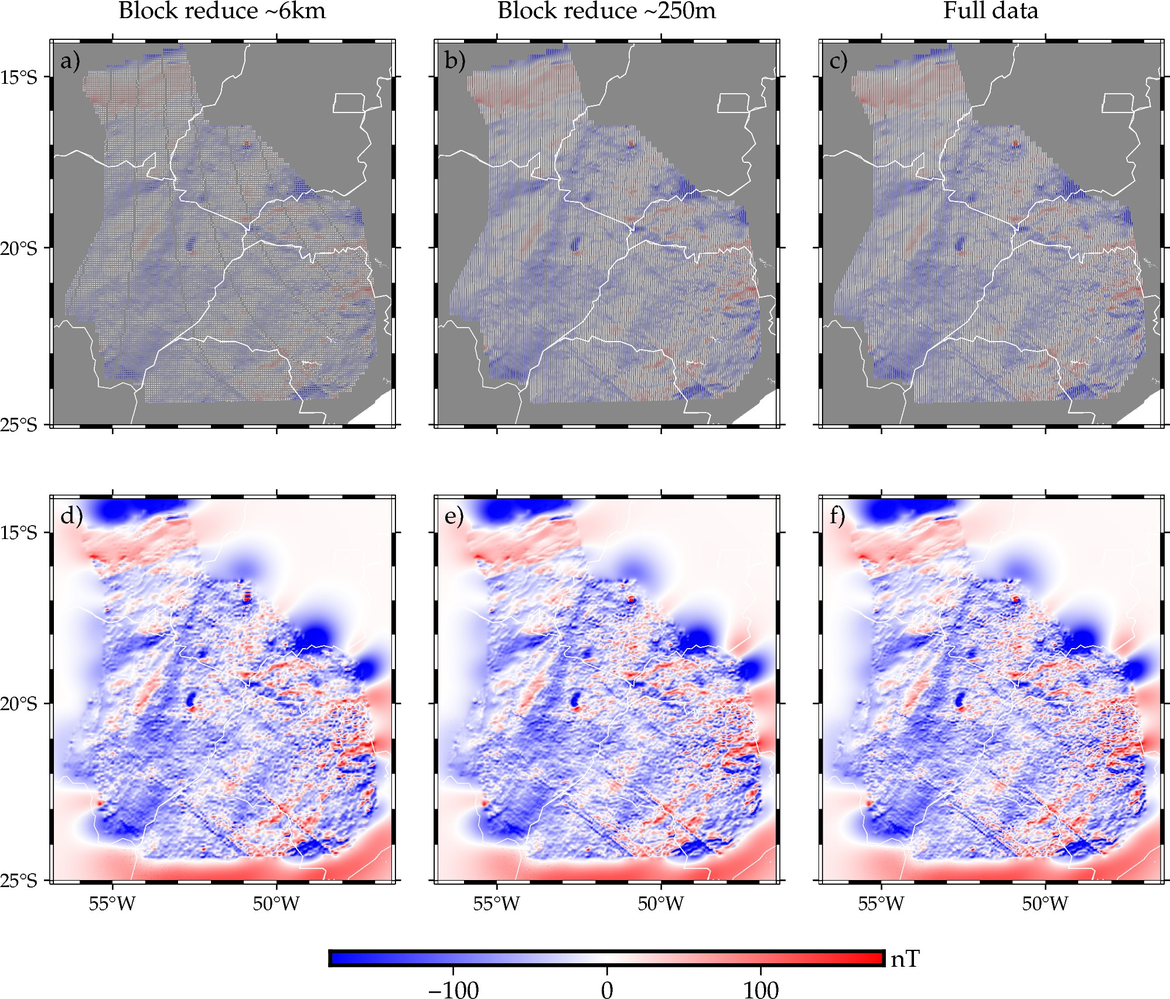
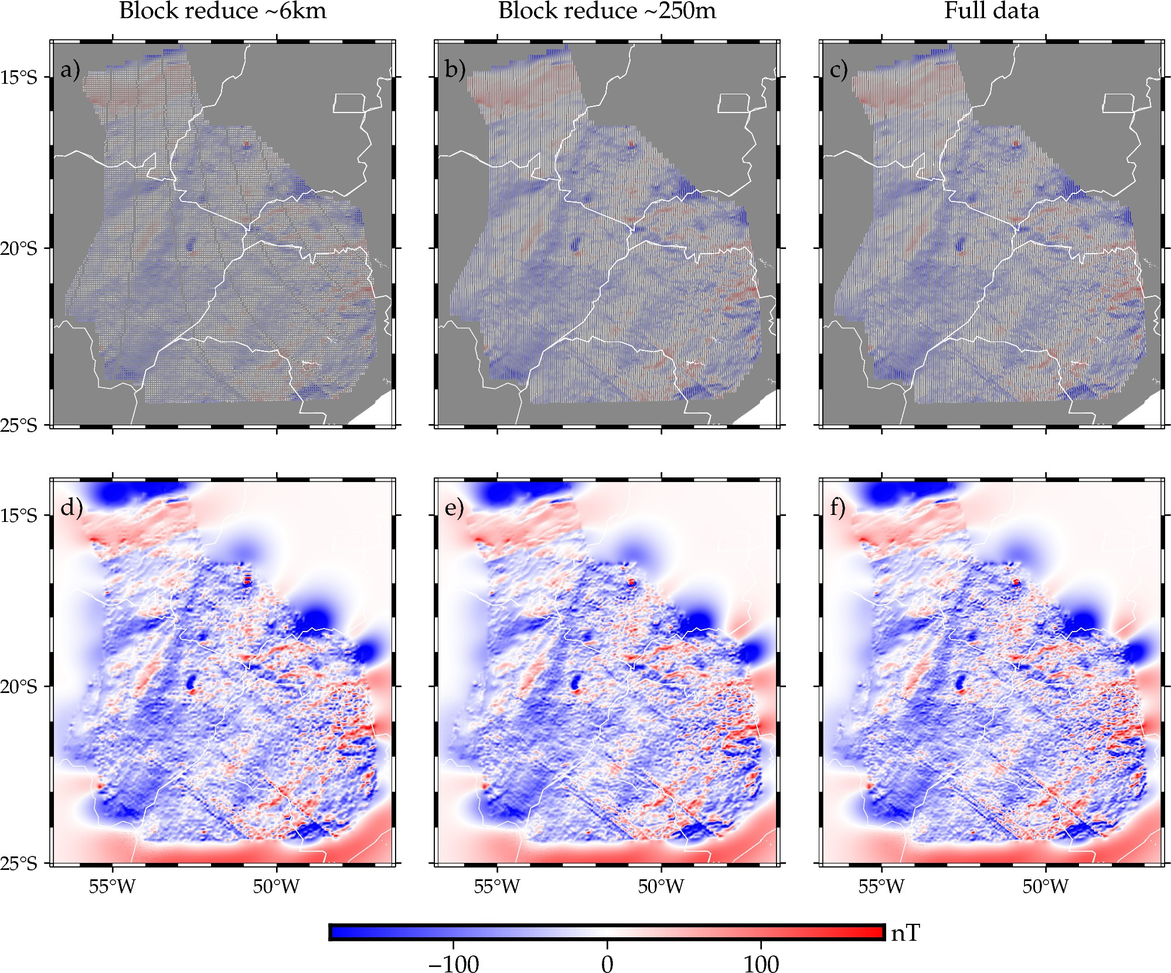
Add the newest version of the results with real data

diff --git a/paper/content.tex b/paper/content.tex
@@ -711,6 +711,19 @@ proposed methodology for large-scale magnetic datasets.
     \label{fig_real_blockmean}
 \end{figure}
 
+\begin{figure}[!ht]
+    \centering
+    \includegraphics[width=1\linewidth]{figures/v_real_00023.png}
+    \caption{Block K-fold cross-validation results for the real dataset.
+    \textbf{a)} RMSE as a function of damping and relative depth for the deep
+    equivalent sources layer, computed using the block-reduced dataset.
+    \textbf{b)} RMSE obtained for the shallow layer using a cropped subset of
+    the residual data. White stars indicate the selected optimal
+    hyperparameter combinations corresponding to the minimum RMSE in each
+    panel.}
+    \label{fig_real_crossvalidation}
+\end{figure}
+
 \begin{figure}[tb]
     \centering
     \includegraphics[width=1\linewidth]{figures/real-data-tfa-norm-bcomponents.jpeg}
@@ -722,59 +735,107 @@ proposed methodology for large-scale magnetic datasets.
     \label{fig_real_components}
 \end{figure}
 
-To evaluate the performance of the proposed spherical dual-layer
-gradient-boosted equivalent sources method under realistic conditions,
-we applied it to airborne magnetic data from the Paraná Basin, Brazil.
-This dataset was selected due to its large spatial coverage and complex
-geological setting, which provide a suitable testbed for regional-scale
-magnetic modeling.
-
-Before the modeling procedure, the dataset was preprocessed to improve
-its consistency and numerical stability. Block-mean decimation was
-applied to reduce the dataset size and mitigate the effects of supersampling.
-In addition, tie lines were removed from the dataset
-due to amplitude inconsistencies that introduce spurious variations in
-the magnetic signal and systematic distortions, which could negatively
-affect the equivalent sources modeling.
+To evaluate the performance of the proposed methodology under realistic
+conditions, it was applied to airborne magnetic data acquired over the Paraná
+Basin, Brazil. The survey covers latitudes from $-24.14^{\circ}$ to
+$-14.14^{\circ}$ and longitudes from $-56.44^{\circ}$ to $-46.96^{\circ}$,
+encompassing one of the largest sedimentary basins in South America.
+Data acquisition was conducted along north--south flight lines spaced
+approximately 6~km apart, with east--west control lines every 18~km, at an
+average altitude of 1800~m. Horizontal and vertical positioning were obtained
+using GPS, ensuring high positional accuracy. The dataset was originally
+referenced to the SAD-69 datum and subsequently converted to WGS-84 using
+official transformation parameters.
+The original raw data were sampled at 100~Hz and subsequently decimated to 1~Hz by averaging consecutive groups of
+100 samples along each flight line. Numerical variables were averaged, while
+categorical and identifier fields were retained from the central record of
+each block. Records containing corrupted or inconsistent values were
+discarded. This procedure preserves along-line continuity while
+significantly reducing the dataset size, in addition, tie lines were removed because they exhibited corrupted and
+inconsistent amplitude values, introducing spurious variations and systematic
+distortions in the magnetic signal that could negatively affect the equivalent
+sources modeling.
 
 To investigate the sensitivity of the method to variations in sampling
-density, different block-mean sizes were applied to generate multiple
-gridded datasets. Figure~\ref{fig_real_blockmean} illustrates the effect
-of varying block-mean sizes on the observed and predicted total-field
-anomalies. Panels \textbf{a--d} show the observed total-field anomaly
-gridded using progressively finer block sizes, while panels
-\textbf{e--h} present the corresponding predicted anomalies obtained
-using the spherical dual-layer gradient-boosted equivalent sources.
+density and spatial resolution, three spatial decimation strategies were
+tested, including block-mean spacings of $0.06^{\circ}$ (approximately 6.6~km),
+$0.0023^{\circ}$ (approximately 250~m), and the complete dataset without
+decimation. The latter was used to generate a final grid with 250~m
+resolution.
+For all decimation levels, a consistent multiscale processing strategy was
+adopted. Spatial blocks of $0.45^{\circ}$ (approximately 50~km) were used for cross-validation
+and parameter tuning of the deep layer, ensuring independence at regional
+scales. For the shallow layer, block sizes of $0.18^{\circ}$ (approximately 20~km) were
+employed to preserve local spatial variability while avoiding spatial
+overfitting. In addition, a moving window with a width of $1.5^{\circ}$ was
+used in the gradient-boosting procedure to control the spatial influence of
+each iteration and ensure stable convergence.
+This unified configuration allows a direct assessment of the robustness of
+the proposed methodology with respect to data density, while maintaining
+consistent regularization and spatial constraints across all experiments.
+The observed and predicted grids obtained from the different decimation
+strategies are shown in Figure~\ref{fig_real_blockmean}. As the block size
+decreases and approaches the target grid resolution, the predicted magnetic
+fields exhibit progressive convergence, indicating robustness with respect
+to sampling density and spatial resolution.
 
-The progressive convergence observed in the predicted grids as the block
-size decreases indicates that the proposed method is robust to changes
-in data resolution and sampling density. Even for coarser decimations,
-the main magnetic features are consistently recovered, demonstrating
-the stability of the inversion procedure.
+Based on this analysis, the block spacing of $0.0023^{\circ}$ was selected as a
+compromise between computational efficiency and spatial resolution. This
+dataset was subsequently used for the full application of the dual-layer
+methodology. From this stage onward, the processing workflow was identical to
+that adopted for the synthetic dataset.
+The deep layer was estimated from a block-reduced version of the selected
+dataset using a spacing of $0.1^{\circ}$, corresponding to approximately
+11~km. Cross-validation blocks with characteristic dimensions of
+approximately 50~km were adopted in order to isolate long-wavelength magnetic
+components and preserve spatial independence.
+The hyperparameters of the deep layer were selected through a block K-fold
+cross-validation procedure applied to the block-reduced dataset. The tested
+parameter space comprised damping values of 1, 100, and 10,000 and source
+depths of 70~km, 100~km, and 130~km, resulting in nine parameter combinations.
+The cross-validation results are shown in
+Figure~\ref{fig_real_crossvalidation}a. The minimum RMSE was obtained for a
+relative depth of approximately 100~km and a damping value of 100. The error
+surface exhibits a relatively broad minimum, indicating limited sensitivity
+to moderate hyperparameter variations.
+Using the selected configuration, the deep-layer inversion was performed
+using the entire block-reduced dataset. The predicted deep-layer field was
+interpolated back onto the full observation coordinates, and the residuals
+between the original data and the deep-layer prediction were computed. These
+residuals constitute the input for the shallow-layer inversion.
 
-After defining the optimal decimation parameters, the method was applied
-to a dense set of equivalent sources distributed at two depth levels.
-This configuration allows the simultaneous representation of shallow
-and deep magnetic sources, improving the flexibility of the model in
-capturing multiscale geological structures.
+The shallow layer was estimated using an iterative gradient-boosting
+algorithm applied to the deep-layer residuals. A moving window with a width of
+$1.5^{\circ}$ was adopted to control the spatial influence of each boosting
+iteration and ensure smooth convergence.
+Due to the large number of observations, cross-validation on the entire
+residual dataset would be computationally prohibitive. Therefore, a
+representative subset was selected for hyperparameter tuning by cropping the
+residual data to the region bounded by longitudes $-54^{\circ}$ to
+$-50^{\circ}$ and latitudes $-18^{\circ}$ to $-16^{\circ}$.
+A block K-fold cross-validation was applied to this subset using spatial
+blocks of approximately 20~km. The tested hyperparameters comprised damping
+values of $10^{2}$, $10^{4}$, and $10^{6}$ and source depths of 6~km, 9~km, and
+12~km, resulting in nine parameter combinations.
+The cross-validation results are shown in
+Figure~\ref{fig_real_crossvalidation}b. The minimum RMSE was obtained for the
+optimal shallow-layer configuration, highlighting the increased sensitivity
+of near-surface sources to parameter variations and the need for appropriate
+regularization.
 
-The quality of the final magnetic field prediction was assessed by
-analyzing the total-field anomaly and its vector components. Figure~
-\ref{fig_real_components} shows the predicted total-field anomaly and
-the three magnetic field components.
+The selected parameters were then applied to invert the full residual
+dataset, producing the shallow-layer model. The final residuals, obtained
+after combining the deep and shallow predictions, exhibit low amplitudes and
+lack coherent spatial structures.
 
-The predicted total-field anomaly reproduces the main regional magnetic
-trends observed in the original data, while preserving important
-short-wavelength features. The consistency between the vector
-components further indicates that the spherical dual-layer
-gradient-boosted equivalent sources method provides a physically
-coherent representation of the magnetic field.
+The estimated deep and shallow layers were used to predict the magnetic field
+onto a regular grid with a spatial resolution of 250~m and constant height of
+500~m.
 
-Overall, the real data application demonstrates that the proposed
-approach is robust to sampling-density variations, capable of handling
-large-scale datasets, and effective in modeling multiscale magnetic
-anomalies. These results confirm its suitability for regional and
-continental-scale magnetic data integration and processing.
+In addition to the total-field anomaly, the eastward ($B_E$),
+northward ($B_N$), and upward ($B_U$) components were also predicted Figure~\ref{fig_real_components}.
+
+
 
 %%%%%%%%%%%%%%%%%%%%%%%%%%%%%%%%%%%%%%%%%%%%%%%%%%%%%%%%%%%%%%%%%%%%%%%%%%%%%%%
 \section{Conclusions}
